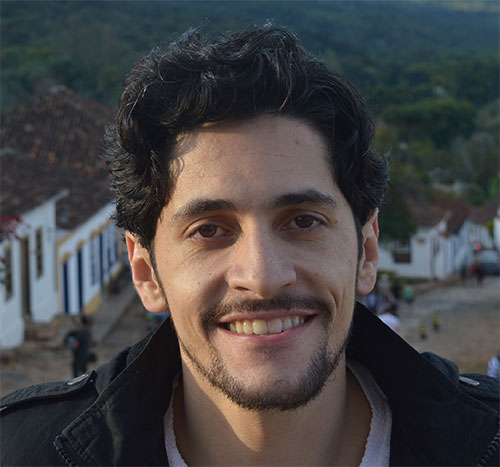
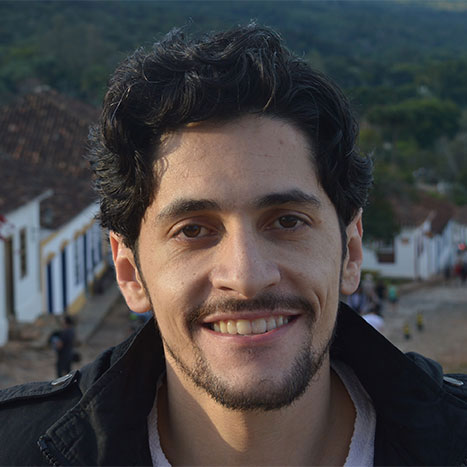
Profile - In Progress

diff --git a/src/components/resume/Profile.vue b/src/components/resume/Profile.vue
@@ -4,10 +4,12 @@
 			<img alt="Joao Menighin profile picture" src="../../assets/menighin.jpg">
 		</div>
 		<div class="profile-info">
-			<h2 class="name">João Menighin</h2>
-			<div class="info">
-
-			</div>
+			<h2 v-show="showName" class="name">João Menighin, {{ age }}</h2>
+			<ul v-if="showInfo" class="info">
+				<li><font-awesome-icon icon="envelope" /> joao.menighin@gmail.com</li>
+				<li><font-awesome-icon icon="map-marker" /> Belo Horizonte, Brasil</li>
+				<li><font-awesome-icon :icon="['fab', 'github']" /> Menighin</li>
+			</ul>
 
 		</div>
 	</div>
@@ -15,20 +17,50 @@
 
 <script>
 export default {
-
+	data() {
+		return {
+			showName: false,
+			showInfo: false
+		}
+	},
+	methods: {
+		toggleShowName() { this.showName = !this.showName },
+		toggleShowInfo() { this.showInfo = !this.showInfo }
+	},
+	computed: {
+		age() {
+			return Math.floor((new Date().getTime() - new Date(1991, 5, 7).getTime()) / (1000 * 60 * 60 * 24 * 365));
+		}
+	}
 }
 </script>
 
 <style lang="scss" scoped>
 
 	.profile {
+
+		position: absolute;
+		width: 100%;
+		top: 50%;
+		transform: translateY(-70%);
+
 		.profile-picture {
 			img {
-				// position: absolute;
-				top: 50%;
-				max-width: 300px;
-				width: 50%;
+				width: 100%;
 				height: auto;
+				max-width: 300px;
+				border-radius: 50%;
+			}
+		}
+
+		.profile-info {
+			position: absolute;
+			width: 100%;
+			text-align: center;
+
+			.info {
+				list-style: none;
+				padding: 0;
 			}
 		}
 	}

diff --git a/src/components/interactivue/Interactivue.vue b/src/components/interactivue/Interactivue.vue
@@ -12,7 +12,7 @@
                 padding: ${gridPadding}px;
                 transition: all ${gridTransitionTime}ms;`">
 
-            <div class="content" :style="`background-color: ${colors[i]};`">
+            <div class="content" :style="debug ? `background-color: ${colors[i]};` : ''">
                 <transition :name="gridContent[item.id] ? gridContent[item.id].animation : 'slide-left'" @after-enter="afterAnimation" @after-leave="afterAnimation">
                     <component :ref="`item-${item.id}`" v-if="gridContent[item.id]" :is="gridContent[item.id].component" v-bind="gridContent[item.id].props" />
                 </transition>
@@ -43,6 +43,7 @@ export default {
     },
     data() {
         return {
+			debug: false,
             grid: [],
             steps: [],
             gridContent: {},
@@ -51,7 +52,7 @@ export default {
             height: 0,
             stepWidth: 0,
             stepHeight: 0,
-            colors: ['red', 'blue', 'green', 'pink', 'yellow', 'purple', 'grey']
+            colors: ['#eee', '#ddd', '#ccc', '#bbb', '#aaa', 'purple', 'grey']
         };
     },
     watch: {

diff --git a/src/views/About.vue b/src/views/About.vue
@@ -4,7 +4,13 @@
 
 			<change-grid :layout="layout" />
 
-			<step :component="Profile" :action="Actions.SHOW" :target="1"/>
+			<step :component="Profile" :action="Actions.SHOW" :target="1" :trigger="Triggers.AFTER_PREVIOUS"/>
+
+			<step method="toggleShowName" :action="Actions.METHOD" :target="1" :trigger="Triggers.AFTER_PREVIOUS" />
+
+			<step method="toggleShowInfo" :action="Actions.METHOD" :target="1" :trigger="Triggers.AFTER_PREVIOUS" />
+
+			<change-grid :layout="layout2" :trigger="Triggers.AFTER_PREVIOUS" />
 
 			<!-- <step :component="Test" :action="Actions.SHOW" :props="{msg: 'WAT2'}" :target="5" :trigger="Triggers.WITH_PREVIOUS"  />
 
@@ -52,17 +58,12 @@ export default {
 			Test: Test,
 			Profile: Profile,
 			layout: [
-				[1, 1, 2, 2],
-				[1, 1, 2, 2],
-				[1, 1, 2, 2],
-				[1, 1, 2, 2],
-				[3, 3, 4, 4],
-				[3, 3, 4, 4],
+				[1]
 			],
 			layout2: [
-				[1, 1, 1],
-				[3, 4, 2],
-				[5, 5, 5]
+				[1, 2, 2, 2],
+				[1, 2, 2, 2],
+				[1, 2, 2, 2]
 			],
 			layout3: [
 				[1, 1, 1],

diff --git a/src/main.js b/src/main.js
@@ -3,6 +3,15 @@ import App from './App.vue'
 import router from './router'
 import store from './store'
 
+import { library } from '@fortawesome/fontawesome-svg-core'
+import { fas } from '@fortawesome/free-solid-svg-icons';
+import { fab } from '@fortawesome/free-brands-svg-icons';
+import { FontAwesomeIcon } from '@fortawesome/vue-fontawesome'
+
+library.add(fas, fab)
+
+Vue.component('font-awesome-icon', FontAwesomeIcon)
+
 Vue.config.productionTip = false
 
 new Vue({
